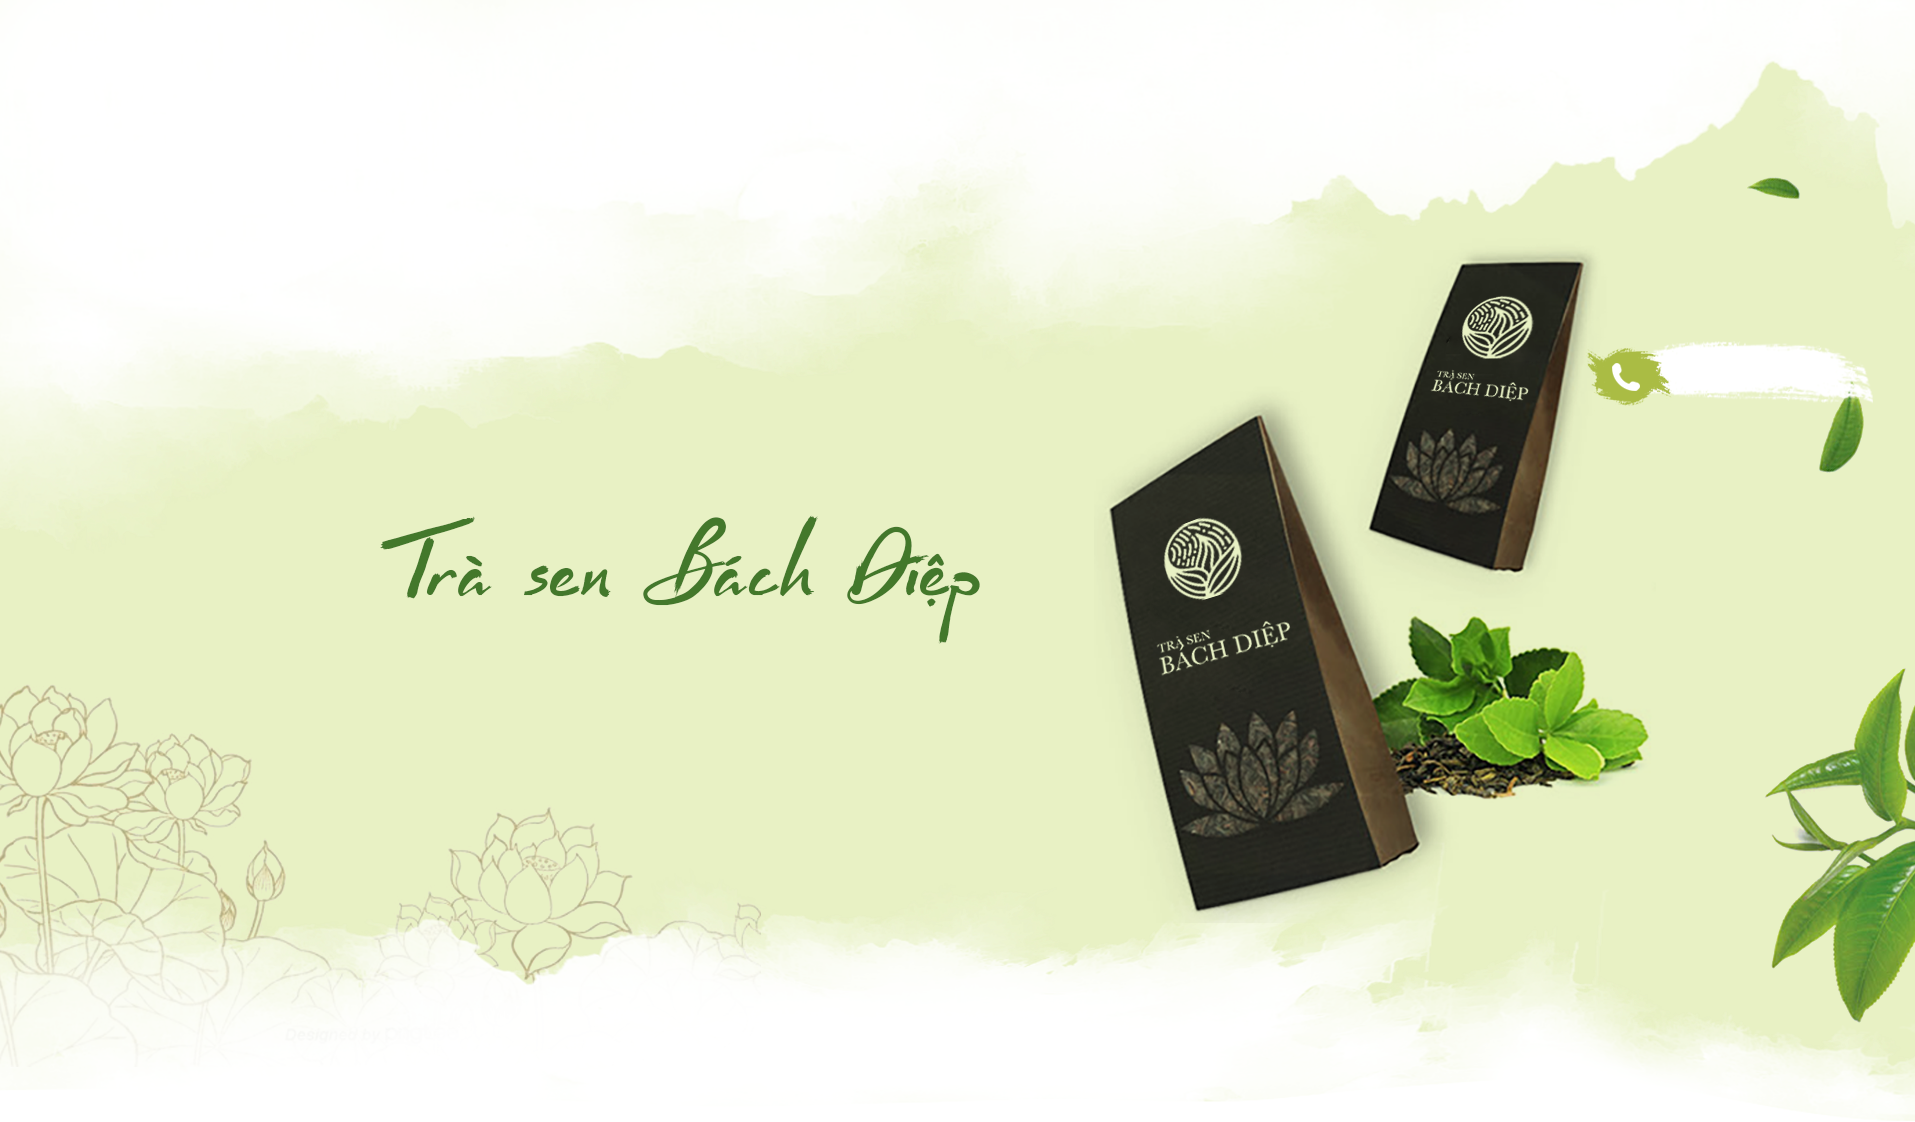
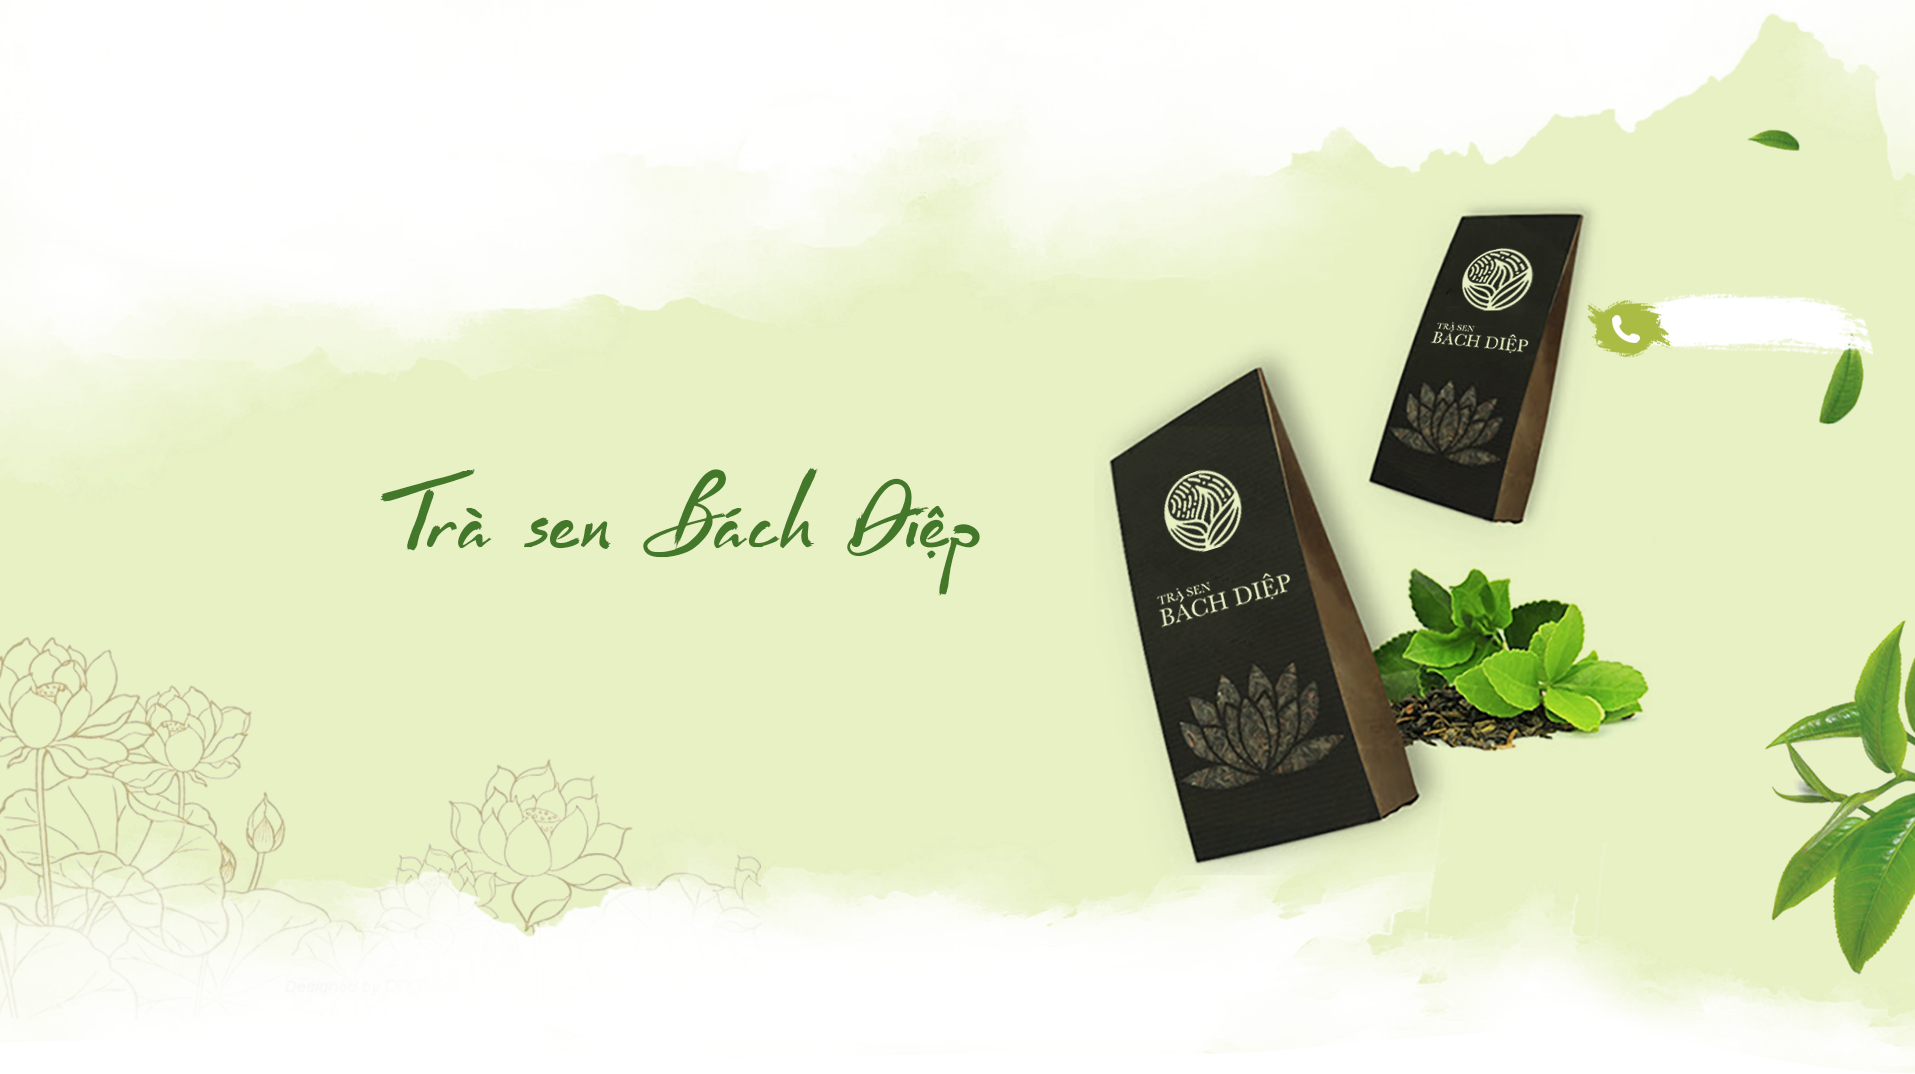
da

diff --git a/DA/view/trangchu.html b/DA/view/trangchu.html
@@ -32,7 +32,7 @@
         <div class="main-banner w-100">
             <img class="w-100" src="../img/trangchu/backBanner.png" alt="banner">
             <div class="info-banner">
-                <h4>TRÀ ƯỚP SEN TÂY HỒ</h4>
+                <h1>TRÀ ƯỚP SEN TÂY HỒ</h1>
                 <img src="../img/trangchu/tinhhoaamthuc.png" alt="">
                 <p>Sự hòa quyện tuyệt vời giữa hương thơm ngan ngát của sen Bách diệp Hồ Tây và vị đậm đà của trà Tân Cương</p>
                 <button class="button">THỬ NGAY</button>
@@ -81,6 +81,7 @@
         </div>
         <!-- giới thiệu -->
         <div class="gioithieu">
+            <h1 class="sdt">0999.999.999</h1>
             <h1>GIỚI THIỆU</h1>
             <img class="w-100" src="../img/trangchu/background2.png" alt="">
             <div class="info-gt">
@@ -93,8 +94,115 @@
                 <button class="button">THỬ NGAY</button>
             </div>
         </div>
+        <!-- nghe nhan -->
+        <div class="nghenhan w-100">
+            <h1>NGHỆ NHÂN TRÀ ĐẠO</h1>
+            <img class="w-100" src="../img/trangchu/nghe-nhan-tra-dao.png" alt="">
+            <div class="list-nn d-flex">
+                <div class="nn w-20">
+                    <div class="img-nn w-100">
+                        <img class="w-100" src="../img/trangchu/professional-tea-1.png" alt="">
+                    </div>
+                    <div class="info-nn w-100">
+                        <h3>NN Nguyễn Cao Sơn</h3>
+                        <p>Nguyễn Cao Sơn được chọn làm đại diện quảng bá văn hóa trà 
+                            Việt tại ngôi nhà di sản 87 Mã Mây, Hà Nội.
+                        </p>
+                    </div>
+                </div>
+                <div class="nn w-20">
+                    <div class="img-nn w-100">
+                        <img class="w-100" src="../img/trangchu/professional-tea-2.png" alt="">
+                    </div>
+                    <div class="info-nn w-100">
+                        <h3>NN Hướng Anh Sướng</h3>
+                        <p>Truyền nhân đời thứ 6 của dòng trà Trường Xuân, Hà Nội chia sẻ
+                            về nghệ thuật trà đạo, lĩnh vực mà anh dành hơn nửa cuộc đời nghiên
+                            cứu một cách đam mê
+                        </p>
+                    </div>
+                </div>
+                <div class="nn w-20">
+                    <div class="img-nn w-100">
+                        <img class="w-100" src="../img/trangchu/professional-tea-3.png" alt="">
+                    </div>
+                    <div class="info-nn w-100">
+                        <h3>NN Nguyễn Thị Dần</h3>
+                        <p>Vẫn tự tay chọn hoa, tách gạo, thực hiện từng công đoạn ướp trà thủ công.
+                            Cũng chính bởi nghiện trà, bởi yêu nên cô thiếu nữ Hà thành năm xưa vẫn say 
+                            hương vị trà sen Tây Hồ
+                        </p>
+                    </div>
+                </div>
+                <div class="nn w-20">
+                    <div class="img-nn w-100">
+                        <img class="w-100" src="../img/trangchu/professional-tea-4.png" alt="">
+                    </div>
+                    <div class="info-nn w-100">
+                        <h3>NN Nguyễn Hoài Linh</h3>
+                        <p>Vô địch thế giới trong cuộc thi Tea Master Cup Internasonal 2018 về pha trà được tổ chức
+                            tại Huế
+                        </p>
+                    </div>
+                </div>
+                <div class="nn w-20">
+                    <div class="img-nn w-100">
+                        <img class="w-100" src="../img/trangchu/professional-tea-5.png" alt="">
+                    </div>
+                    <div class="info-nn w-100">
+                        <h3>NN Viên Trần</h3>
+                        <p>Sinh ra và lớn lên trong một gia đình quý tộc phong kiến, trong môi
+                            trường mà việc uống trà và trà cực ngon, cực thượng hạng là điều không
+                            thể thiếu trong nhà.
+                        </p>
+                    </div>
+                </div>
+            </div>
+        </div>
+        <!-- mua ngay -->
+        <div class="muangay w-100">
+            <h1>MUA NGAY</h1>
+            <img class="w-100" src="../img/trangchu/bannermuangay.png" alt="">
+            <div class="form-mua">
+                <form action="">
+                    <input class="info" type="text" name="" id="" placeholder="email/số điện thoại">
+                    <input class="button im" type="submit" name="" id="">
+                </form>
+            </div>
+        </div>
     </section>
     <footer>
+        <div class="footer w-100">
+            <img class="w-100" src="../img/trangchu/fotter.png" alt="">
+            <div class="info-footer">
+                <table class="tb-ft w-100">
+                    <thead>
+                        <tr class="dong">
+                            <th class="cot"><img  class="cot" src="../img/trangchu/logophongtra.png" alt=""></th>
+                            <th class="cot">VỀ CHÚNG TÔI</th>
+                            <th class="cot">LIÊN HỆ</th>
+                        </tr>
+                    </thead>
+                    <tbody>
+                        <tr class="dong">
+                            <td class="cot">0999.999.999</td>
+                            <td class="cot"><a href="#">Giới Thiệu</a></td>
+                            <td class="cot"> </td>
+                        </tr>
+                        <tr class="dong">
+                            <td class="cot">tradenbachdiep@gamil.com</td>
+                            <td  class="cot"> <a href="#">Sản phâm</a></td>
+                            <td class="cot"></td>
+                        </tr>
+                        <tr class="dong">
+                            <td class="cot">Số 12 Quảng An, Tây Hồ, Hà Nội</td>
+                            <td class="cot"><a href="#">Tin tức</a></td>
+                            <td class="cot"></td>
+                        </tr>
+                    </tbody>
+                </table>
+            </div>
+        </div>
     </footer>
 </body>
 </html>

diff --git a/DA/css/trangchu.css b/DA/css/trangchu.css
@@ -36,7 +36,6 @@ html{
 .info-banner {
     position: absolute;
     width: 30%;
-    height: 100%;
     text-align: justify;
     top: 25%;
     left: 15%;
@@ -54,6 +53,7 @@ html{
     position: absolute;
     top: 15%;
     left: 42%;
+    font-size: 2rem;
 
 }
 .sanpham .main-sanpham .list-sanpham{
@@ -77,4 +77,88 @@ html{
     position: absolute;
     top: 24%;
     left: 44%;
+    font-size: 2rem;
+}
+.gioithieu>.sdt{
+    position: absolute;
+    top: 28%;
+    left: 87%;
+    color: rgb(105, 161, 19);
+    font-size: 1.5rem;
+}
+.info-gt{
+    position: absolute;
+    width: 27%;
+    text-align: justify;
+    top: 53%;
+    left: 21%;
+    font-size: medium;
+}
+/* css nghệ nhân */
+.nghenhan{
+    position: relative;
+}
+.nghenhan h1{
+    position: absolute;
+    top: 10%;
+    left: 39%;
+    font-size: 2rem;
+}
+.list-nn{
+    position: absolute;
+    width: 71%;
+    top: 27%;
+    left: 16%;
+}
+.img-nn{
+    align-items: center;
+}
+.nn{
+    margin-right: 2rem;
+}
+.info-nn h3{
+    text-align: center;
+}
+.info-nn p{
+    text-align: center;
+    font-size: medium;
+}
+/* css mua ngay */
+.muangay {
+    position: relative;
+}
+.muangay h1{
+    position: absolute;
+    top: 45%;
+    left: 36%;
+    font-size: 2rem;
+}
+
+.form-mua{
+    position: absolute;
+    width: 63%;
+    top: 60%;
+    left: 11%;
+}
+.info {
+    height: 50px;
+    width: 77%;
+    margin-right: 1rem;
+}
+.im{
+    width: 20% !important;
+}
+/* css footer */
+.footer{
+    position: relative;
+}
+.info-footer{
+    position: absolute;
+    width: 65%;
+    top: 15%;
+    left: 12%;
+}
+.cot{
+    margin-right: 2rem;
+    text-align: left;
 }

diff --git a/DA/css/layout.css b/DA/css/layout.css
@@ -1,4 +1,7 @@
 /* css mặc định */
+html{
+    font-size: 20px;
+}
 *{
     margin: 0;
     padding: 0;
@@ -13,9 +16,9 @@
     text-align: center;
     border: 0;
     font-size: larger;
-    height: 50px;
+    height: 2.5rem;
     width: 40%;
-    margin-top: 20px;
+    margin-top: 1rem;
 }
 /* display flex */
 .d-flex{

diff --git a/less9/js/home.js b/less9/js/home.js
@@ -97,3 +97,5 @@ console.log("tam giac la tam giac thuong");
         sum += parseInt(arrnum[i]);
     }
     console.log("tong cua mang la ",sum);
+    // btvn tinh tich tat ca cac phan tu 
+    //           tong va tich cac phan tu o vi tri chan
